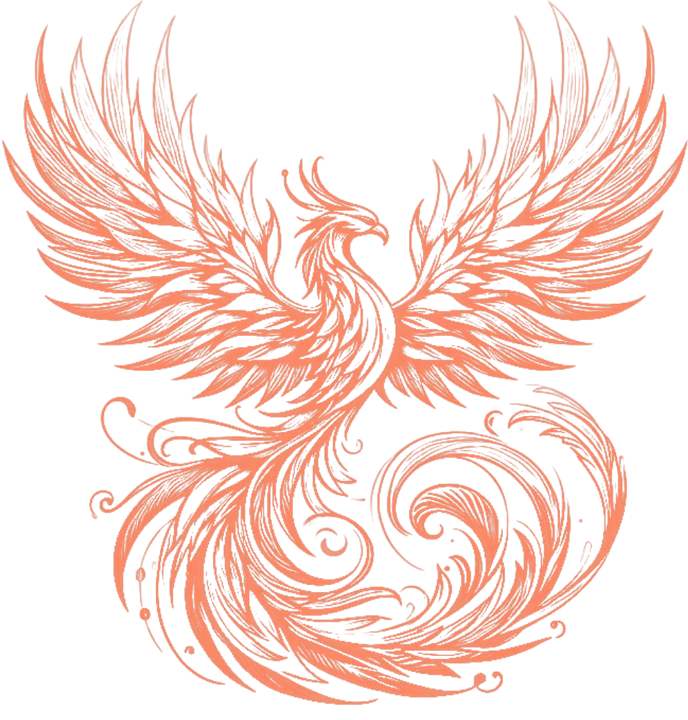
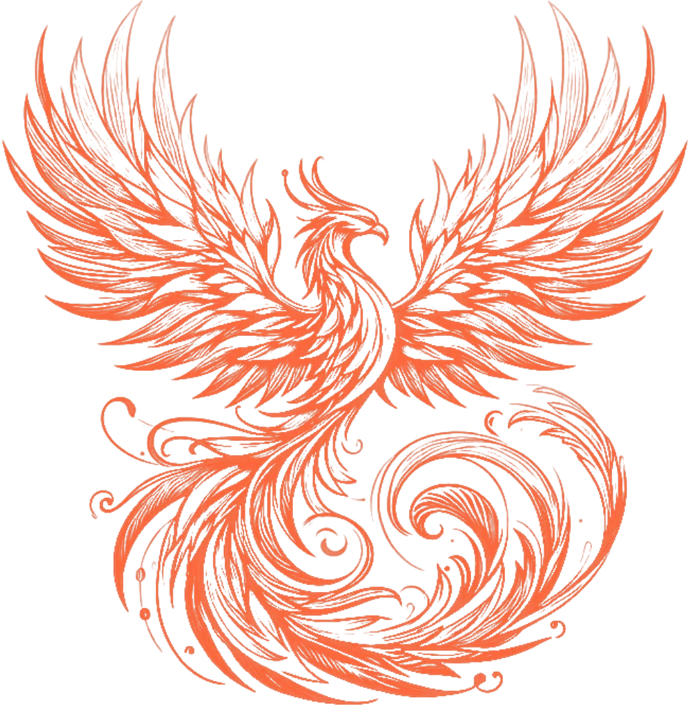
Thanh Long + Chu Tước đậm hơn một nấc (cả hình và tên, cả 2 trang)
Thanh Long #7ed957 -> #5cbf30, Chu Tước #ff8a66 -> #ff6a3d; tô lại ảnh bronze/gold ở cả beasts-member và beasts-guide cho khớp màu tên.

Changed region(s): [[0.0, 0.0611, 1.0, 0.9778], [0.1526, 0.55, 0.2137, 0.5806], [0.1221, 0.1222, 0.1526, 0.1528]]

diff --git a/frontend/src/pages/MyTier.css b/frontend/src/pages/MyTier.css
@@ -142,9 +142,9 @@ a.tier-badge { text-decoration: none; }
   color: rgba(255,255,255,.92); text-shadow: 0 1px 5px rgba(0,0,0,.6); text-transform: uppercase;
 }
 .beast-card-beast { margin-top: 1px; font-family: 'Dancing Script', cursive; font-size: 1.54rem; font-weight: 700; letter-spacing: .02em; line-height: 1.15; color: #cdeffb; text-shadow: 0 1px 6px rgba(0,0,0,.65), 0 0 12px rgba(0,0,0,.35); }
-.beast-bronze .beast-card-beast { color: #7ed957; }
+.beast-bronze .beast-card-beast { color: #5cbf30; }
 .beast-silver .beast-card-beast { color: #eef4fa; }
-.beast-gold .beast-card-beast { color: #ff8a66; }
+.beast-gold .beast-card-beast { color: #ff6a3d; }
 .beast-diamond .beast-card-beast { color: #d3a6ff; }
 .beast-card-threshold { margin-top: 6px; font-size: .78rem; line-height: 1.4; color: rgba(255,255,255,.92); text-shadow: 0 1px 5px rgba(0,0,0,.6); min-height: 2.2em; }
 .beast-card-you {

diff --git a/frontend/src/pages/TierGuide.css b/frontend/src/pages/TierGuide.css
@@ -143,9 +143,9 @@
   color: #cdeffb; text-shadow: 0 1px 3px rgba(20,14,8,.65), 0 0 12px rgba(20,14,8,.4);
   white-space: nowrap; overflow: hidden; text-overflow: ellipsis;
 }
-.metal-bronze .metal-beast { color: #7ed957; }
+.metal-bronze .metal-beast { color: #5cbf30; }
 .metal-silver .metal-beast { color: #eef4fa; }
-.metal-gold .metal-beast { color: #ff8a66; }
+.metal-gold .metal-beast { color: #ff6a3d; }
 .metal-diamond .metal-beast { color: #d3a6ff; }
 .metal-bottom { display: flex; margin-top: auto; }
 .metal-holder {
